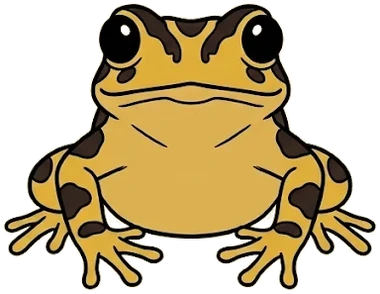
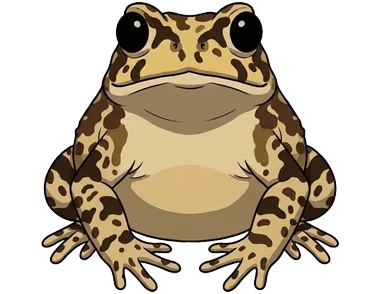
Sapo de frente nuevo: amarillo manchado de día y verde de noche (#6)
Claude-Session: https://claude.ai/code/session_01SM3NeWJHbkYMMXAWZTQZ3s

diff --git a/src/components/Shared.jsx b/src/components/Shared.jsx
@@ -58,7 +58,9 @@ export function EmptyBox({ text, onClear }) {
   const { t } = useApp();
   return (
     <div className="empty">
-      <img className="sapo-vacio" src="/img/sapo-frente.webp" width="380" height="294" alt="" />
+      {/* De día el sapo amarillo y de noche el verde; el CSS enseña el que toca según el tema */}
+      <img className="sapo-vacio logo-tema logo-claro" src="/img/sapo-frente.webp?v=2" width="380" height="294" alt="" />
+      <img className="sapo-vacio logo-tema logo-noche" src="/img/sapo-frente-noche.webp" width="380" height="294" alt="" />
       <div>
         <p>{t(text)}</p>
         {onClear && <button type="button" className="linkbtn" onClick={onClear}>{t("Quitar filtros")}</button>}
